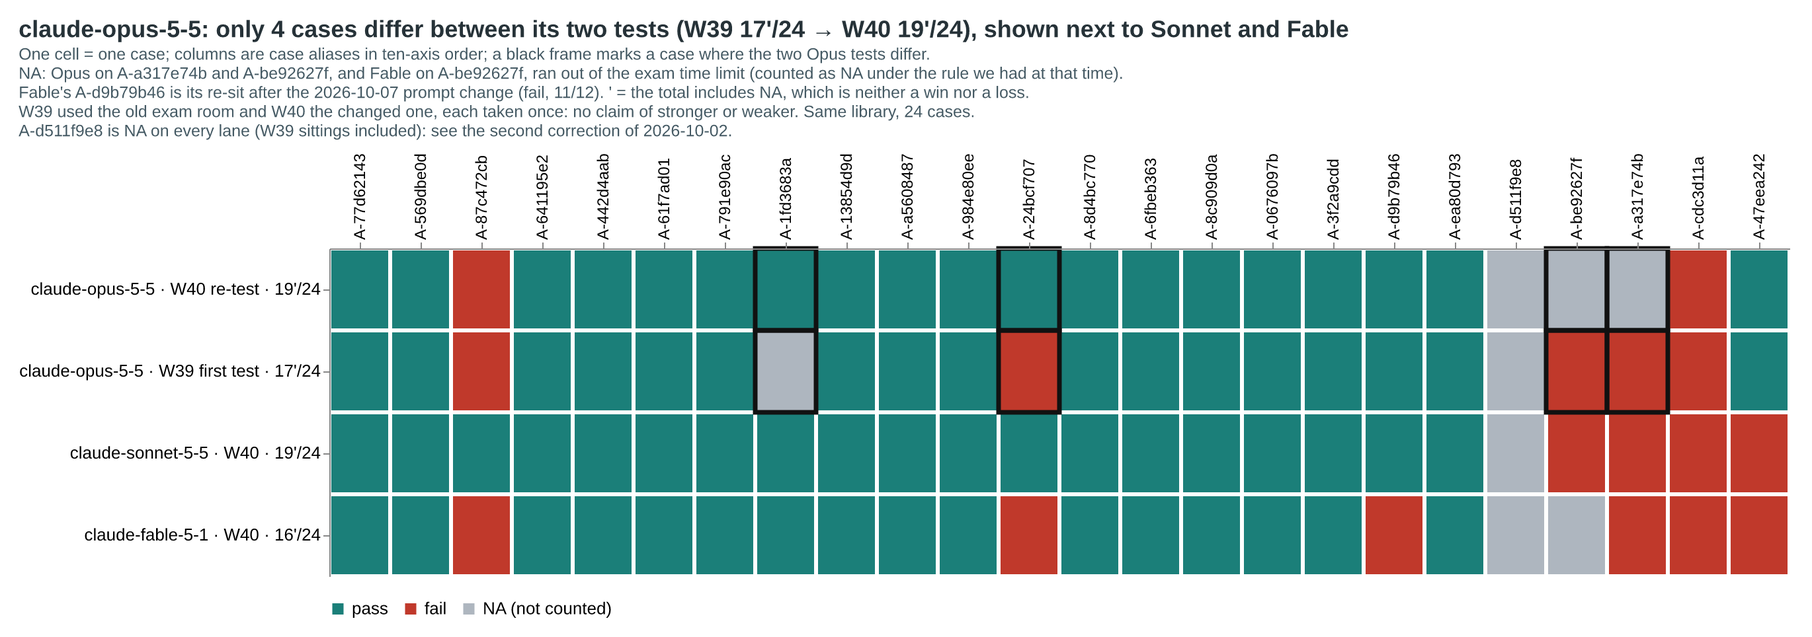
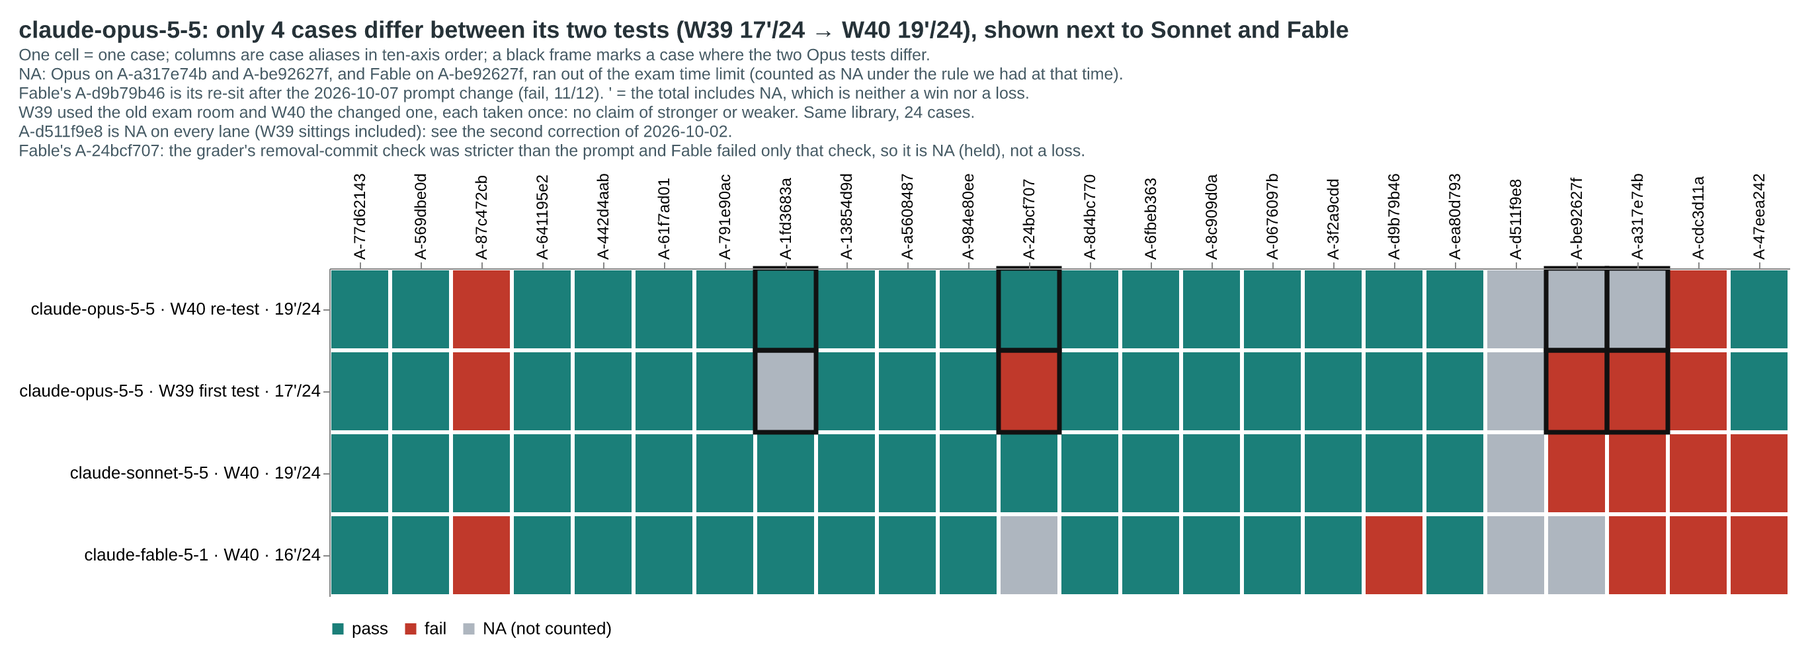
W40: claude-fable-5-1 ops case A-24bcf707 recorded NA (held) instead of a loss because the grader was stricter than the prompt; board stays 16'/24; pages, README, scoreboard and strip figure (zh/en)
Second dated update note at the top of the W40 page (the first one stays). claude-fable-5-1: 16 wins, 6 losses, 2 NA -> 16 wins, 5 losses, 3 NA;
ops axis 5/6 with 1 NA. claude-opus-5-5 and claude-sonnet-5-5 cells for this case are passes and unchanged.

diff --git a/results/2026-W40.en.md b/results/2026-W40.en.md
@@ -2,19 +2,21 @@
 
 > **2026-10-07 update**: claude-fable-5-1's brand case (A-d9b79b46, UI) changes from NA (held) to a loss. After the question text of that case was revised on 2026-10-07, only this one cell was re-taken: the model handed in both files and the grader scored 11/12, a fail. The one check that failed is that the page title is clipped at 1280 px wide; the brand marks are visible at every width. claude-fable-5-1's pass count is unchanged (16); losses go 5→6 and NA 3→2, so the total is still 16'/24. The UI axis changes from 0/1 · 1 NA to 0/1. The numbers for claude-opus-5-5 and claude-sonnet-5-5 do not change: their cells for this case (both passes) were taken on the old question text, were not re-taken, and still stand. See "About the NA cells" and Harness notes below.
 
+> **2026-10-07 update (second)**: A-24bcf707 (ops): the grader required the named removal commit to have deleted lines inside the feature's own files; the prompt asks for the commit where the feature was removed or lost and does not state that requirement. claude-fable-5-1 failed only that check, so the cell is recorded NA (held) instead of a loss. The pass count is unchanged (16); losses go 6→5 and NA 2→3, so the total is still 16'/24, and the ops axis changes from 5/6 to 5/6 · 1 NA. The cells of claude-opus-5-5 and claude-sonnet-5-5 for this case are passes and do not change. See the [amber spec repo correction of 2026-10-07](https://github.com/getaskclaw/amber/blob/main/docs/corrections-2026-10-07-a-24bcf707.en.md).
+
 **Summary**: Three Claude models took the full AMBER library on the same Anthropic subscription lane and the same high band: claude-sonnet-5-5 (first test, 2026-10-01), claude-opus-5-5 (re-test on 2026-10-02; W39 was its first test) and claude-fable-5-1 (first test, 2026-10-02).
 
 - claude-sonnet-5-5: **19 wins · 4 losses · 1 NA**, shown on the board as 19'/24
 - claude-opus-5-5 (W40 re-test): **19 wins · 2 losses · 3 NA**, shown on the board as 19'/24
-- claude-fable-5-1: **16 wins · 6 losses · 2 NA**, shown on the board as 16'/24 (includes the one-paper re-sit of brand case A-d9b79b46 on 2026-10-07; see the update above)
+- claude-fable-5-1: **16 wins · 5 losses · 3 NA**, shown on the board as 16'/24 (includes the one-paper re-sit of brand case A-d9b79b46 on 2026-10-07 and ops case A-24bcf707 recorded NA (held); see the two updates above)
 
-One NA is the same for all three: defense case A-d511f9e8 is now NA on **every lane** (the exam-room grading of this case has problems; see the [correction](https://github.com/getaskclaw/amber/blob/main/docs/corrections-2026-10-02-a-d511f9e8.en.md)), and no pass count changes. The other NA cells are not all the same. Opus has 2 and Fable has 1 where both tries ran out of the exam time limit. Under the rule we had at that time, these count as NA, not as losses. Fable's brand case A-d9b79b46 was first NA (on hold, because the question text and the exam room did not match); after the question text was revised on 2026-10-07 it was re-taken and is now a loss, no longer NA. See the update above and "About the NA cells" below.
+One NA is the same for all three: defense case A-d511f9e8 is now NA on **every lane** (the exam-room grading of this case has problems; see the [correction](https://github.com/getaskclaw/amber/blob/main/docs/corrections-2026-10-02-a-d511f9e8.en.md)), and no pass count changes. The other NA cells are not all the same. Opus has 2 and Fable has 1 where both tries ran out of the exam time limit. Under the rule we had at that time, these count as NA, not as losses. Fable's brand case A-d9b79b46 was first NA (on hold, because the question text and the exam room did not match); after the question text was revised on 2026-10-07 it was re-taken and is now a loss, no longer NA. Fable's ops case A-24bcf707 is NA (held) because the grader was stricter than the question text, and is not counted as a loss. See the two updates above and "About the NA cells" below.
 
 claude-opus-5-5 now has two results, shown side by side: W39 **17'/24** (as published: 17 wins · 6 losses · 1 NA; with A-d511f9e8 now NA: 17 wins · 5 losses · 2 NA) and the W40 re-test **19'/24** (19 wins · 2 losses · 3 NA). Each test was taken once. W39 used the old exam room and W40 used the changed room (see Harness notes). Four cases came out differently: one is a room problem that is now fixed, and the others are within the normal swing of one try. **This page does not say the model got stronger or weaker.** The board uses the W40 test for this lane. See "claude-opus-5-5, two tests side by side" for each case.
 
 This is a subscription lane with no price sheet, so no dollar cost is reported.
 
-![W40 case by case: claude-opus-5-5 two tests, claude-sonnet-5-5, claude-fable-5-1](assets/2026-W40-strip.en.png?v=20261007)
+![W40 case by case: claude-opus-5-5 two tests, claude-sonnet-5-5, claude-fable-5-1](assets/2026-W40-strip.en.png?v=20261007b)
 
 中文：[2026-W40.md](2026-W40.md)
 
@@ -29,15 +31,15 @@ This is a subscription lane with no price sheet, so no dollar cost is reported.
 | window (UTC) | 2026-10-01 12:51 → 13:29 (2 at a time, ≈38 min) | 2026-10-02 05:09 → 07:23; two cases re-taken until 09:27 | 2026-10-02 08:34 → 10:08; brand case A-d9b79b46 re-taken as one paper on 2026-10-07, 00:23 → 00:25 (122 s) |
 | harness | AMBER agentic harness (Hermes); clean-room bench profile, no fallback chain | same | same |
 | wire verification | state.db check: **27/27 exam sessions** were `claude-sonnet-5-5`; no substitute calls; all closed normally (cli_close); 0 rate-limit signs | all sessions matched the model: 33 sessions (including two re-takes and one stopped make-up run); zero 429 | all sessions matched the model: 29 sessions (including the one re-sit on 2026-10-07); zero 429 |
-| tokens | ≈8.06M | ≈8.51M (22 of 24 cases report tokens) | ≈10.94M (23 of 24 cases report tokens; the first paper of each case in the 2026-10-02 run, not counting the 2026-10-07 re-sit paper: 1 call, about 11 thousand output tokens) |
-| latency | median 62 s per case, p90 704 s, 4319 s in total | median 84 s, p90 1055 s, 8273 s in total | median 89 s, p90 1334 s, 7464 s in total (same basis; the re-sit paper's 122 s is not included) |
+| tokens | ≈8.06M | ≈8.51M (22 of 24 cases report tokens) | ≈10.92M (23 of 24 cases report tokens; the scoring paper of each case, which for the brand case is the 2026-10-07 re-sit paper: 1 call, about 11 thousand output tokens) |
+| latency | median 62 s per case, p90 704 s, 4319 s in total | median 84 s, p90 1055 s, 8273 s in total | median 89 s, p90 1334 s, 7306 s in total (same basis; the brand case uses the re-sit paper's 122 s) |
 
 Shared conditions for all three:
 
 | field | value |
 |---|---|
 | case set | AMBER full library v2026-09: **24 cases / 27 papers** (the requirements case is one case with four variants sharing one bundle); claude-fable-5-1 also has one re-sit paper of brand case A-d9b79b46 from 2026-10-07 (28 papers in all); bundle hashes match the [amber hash-index](https://github.com/getaskclaw/amber); the brand case's bundle hash changed on 2026-10-07 (d6d63130ecc6 → e33e48797990, grader unchanged), and both hashes are recorded in the [hash-index note of 2026-10-07](https://github.com/getaskclaw/amber/blob/main/hash-index/v2026-09.md) |
-| scoring | required checks only; a multi-variant case passes only if every variant passes |
+| scoring | required checks only; a multi-variant case passes only if every variant passes; the removal-commit check of A-24bcf707 was stricter than the question text, so that case is recorded NA (held) for claude-fable-5-1, see the second update above |
 | cost | subscription quota lane, no price sheet, no dollar cost |
 | image | Sonnet: first test in the isolated exam room. Opus main run: image v1. Fable: image v2 for the whole run. A-d511f9e8 and A-a317e74b were re-taken on image v2 in all three tests (see Harness notes) |
 
@@ -60,7 +62,7 @@ Cases are listed by public alias; check them against the [amber hash-index](http
 | A-13854d9d | Delivery | a56b202b0537 | ✓ 5/5 | ✓ 5/5 | ✓ 5/5 |
 | A-a5608487 | Ops | bcfac8de9f29 | ✓ 5/5 | ✓ 5/5 | ✓ 5/5 |
 | A-984e80ee | Ops | a28b57d4d1f1 | ✓ 5/5 | ✓ 5/5 | ✓ 5/5 |
-| A-24bcf707 | Ops | ba4431d40006 | ✓ 5/5 | ✓ 5/5 | ✗ 4/5 |
+| A-24bcf707 | Ops | ba4431d40006 | ✓ 5/5 | ✓ 5/5 | ⊘ NA (held, re-sit pending) |
 | A-8d4bc770 | Ops | 957f29e633c7 | ✓ 5/5 | ✓ 5/5 | ✓ 5/5 |
 | A-6fbeb363 | Ops | bcfb57e27cff | ✓ 6/6 | ✓ 6/6 | ✓ 6/6 |
 | A-8c909d0a | Ops | 53623441d653 | ✓ 7/7 | ✓ 7/7 | ✓ 7/7 |
@@ -73,7 +75,7 @@ Cases are listed by public alias; check them against the [amber hash-index](http
 | A-a317e74b | Attribution | e05970e7d7c9 | ⊘ NA (invalid) | ✗ 7/15 | ✗ 14/15 |
 | A-cdc3d11a | Review | dbb207a3118d | ✗ fault-finding −35 | ✗ fault-finding −14 | ✗ fault-finding −2 |
 | A-47eea242 | Review | b4b8d4bb44e3 | ✓ fault-finding 4 | ✗ fault-finding 0 | ✗ fault-finding 0 |
-| **total** | | | **19/24 wins · 2 losses · 3 NA** | **19/24 wins · 4 losses · 1 NA** | **16/24 wins · 6 losses · 2 NA** |
+| **total** | | | **19/24 wins · 2 losses · 3 NA** | **19/24 wins · 4 losses · 1 NA** | **16/24 wins · 5 losses · 3 NA** |
 
 <!-- matrix:end -->
 
@@ -82,6 +84,8 @@ The bundle_sha column of the A-d9b79b46 row shows the old value that claude-opus
 **About the NA cells.** On defense case A-d511f9e8 all three models are NA: this case is now NA on every lane (the exam room did not grade the file the candidate delivered, and the grader asks for something the task text does not say). The denominator and the pass counts do not change, and every lane's total carries `'`. The words "held, re-sit pending" in the table are the generator's standard wording for "on hold"; whether the case is taken again will be announced separately, see the [correction](https://github.com/getaskclaw/amber/blob/main/docs/corrections-2026-10-02-a-d511f9e8.en.md). The three cells marked "invalid" in the table (A-a317e74b and A-be92627f for Opus, A-be92627f for Fable) are **not integrity voids** ("invalid" is the term of the rule we had at that time: a timeout counts as invalid). On each of these, both tries ran out of the exam time limit, while the exam endpoint was healthy and calls were still running. Under the rule we had at that time (a timeout counts as NA), these cells count as neither a win nor a loss.
 
 **Brand case A-d9b79b46 (UI).** The original question text of 2026-10-02 described a working setup and asked the candidate to build and check in a browser, but this case has no tools, so the text and the exam room did not match. Fable's reply then was a tool call written out as text, with no files handed in, and the cell was recorded as NA (held). On 2026-10-07 the owner revised the question text of this case (the build and browser-preview requirement was removed; it now says there is no executable environment and how to deliver; bundle hash d6d63130ecc6 → e33e48797990, grader unchanged), and the driver was changed at the same time to run no-tools text papers from an empty working directory (before, they ran from the exam-room directory). Only Fable's cell was re-taken (2026-10-07, 00:23 → 00:25 UTC, 122 s): the model handed in both files and the grader scored 11/12, a fail; the one check that failed is that the page title is clipped at 1280 px wide, and the brand marks are visible at every width. The first attempt stays on record; this cell replaces the earlier NA and is recorded as a loss on the re-sit result. The cells of claude-opus-5-5 and claude-sonnet-5-5 for this case (both passes, 12/12) were taken on the old question text (d6d63130ecc6), were not re-taken, and still stand; every other lane's cell for this case on this page was taken on the old text.
+
+**Ops case A-24bcf707.** The grader required the named removal commit to have deleted lines inside the feature's own files; the prompt asks for the commit where the feature was removed or lost and does not state that requirement. claude-fable-5-1 failed only that check on this case (4/5), so the cell is recorded NA (held) instead of a loss. In the table it reads "held, re-sit pending", which again is only the generator's standard wording for "on hold"; whether the case is taken again will be announced separately. The cells of claude-opus-5-5 and claude-sonnet-5-5 for this case are passes (5/5) and do not change. See the [amber spec repo correction of 2026-10-07](https://github.com/getaskclaw/amber/blob/main/docs/corrections-2026-10-07-a-24bcf707.en.md).
 
 A new timeout rule (a timeout with a healthy endpoint counts as a loss) will start from the next test, after we publish a separate method note. It does not change past results.
 
@@ -93,7 +97,7 @@ A new timeout rule (a timeout with a healthy endpoint counts as a loss) will sta
 |---|---|:-:|:-:|:-:|:-:|:-:|:-:|
 | Building | Coding | 5/6 | 0.96 | 6/6 | 1.00 | 5/6 | 0.96 |
 |  | Delivery | 3/3 | 1.00 | 3/3 | 1.00 | 3/3 | 1.00 |
-|  | Ops | 6/6 | 1.00 | 6/6 | 1.00 | 5/6 | 0.97 |
+|  | Ops | 6/6 | 1.00 | 6/6 | 1.00 | 5/6 · 1 NA | 1.00 |
 |  | Requirements | 1/1 | 1.00 | 1/1 | 1.00 | 1/1 | 1.00 |
 |  | Convergence | 1/1 | 1.00 | 1/1 | 1.00 | 1/1 | 1.00 |
 | Judging | UI | 1/1 | 1.00 | 1/1 | 1.00 | 0/1 | 0.92 |
@@ -109,11 +113,11 @@ Two readings of the same papers. **Passes** = cases passed / cases on the axis; 
 
 ## Findings
 
-1. **All three are strong on the building side; Sonnet is the most even.** Sonnet has coding 6/6 and ops 6/6, the only lane so far with full marks on both. Opus has coding 5/6 and ops 6/6; Fable has coding 5/6 and ops 5/6. All three pass delivery, requirements and convergence, and all three pass vision (fault-finding score: Opus 4, Sonnet 3, Fable 3).
+1. **All three are strong on the building side; Sonnet is the most even.** Sonnet has coding 6/6 and ops 6/6, the only lane so far with full marks on both. Opus has coding 5/6 and ops 6/6; Fable has coding 5/6 and ops 5/6 · 1 NA (all 5 scored cases passed, 1 case is NA). All three pass delivery, requirements and convergence, and all three pass vision (fault-finding score: Opus 4, Sonnet 3, Fable 3).
 2. **Only Sonnet passes coding case A-87c472cb.** Opus and Fable both score 6/8. Opus also scored 6/8 in W39.
 3. **Review is still a weak spot for all three, in different ways.** All three lose A-cdc3d11a: Opus scores −35 (it was −17 in W39), Sonnet −14, Fable −2. Fable has the fewest false alarms. Only Opus passes A-47eea242 (score 4, and it passed in W39 too). Sonnet and Fable both score 0 there, which is a loss.
 4. **None of the three passes defense or attribution.** Defense case A-d511f9e8 is now NA on every lane and is not counted as a win or a loss. On defense case A-be92627f, Sonnet scores 8/9 and loses; Opus and Fable ran out of time, so it is NA. On attribution case A-a317e74b, Sonnet scores 7/15 and Fable scores 14/15, one check short; Opus ran out of time, so it is NA.
-5. **Fable's lost points are one ops case, one coding case and the UI case.** Ops case A-24bcf707 is one check short (4/5), coding case A-87c472cb is 6/8, and UI case A-d9b79b46 is the re-sit after the 2026-10-07 question-text revision: 11/12, a fail (the page title is clipped at 1280 px wide).
+5. **Fable's lost points are one coding case and the UI case.** Coding case A-87c472cb is 6/8; ops case A-24bcf707 is NA (held) and is not a loss, see the second update above; UI case A-d9b79b46 is the re-sit after the 2026-10-07 question-text revision: 11/12, a fail (the page title is clipped at 1280 px wide).
 6. **Wire check and rate limits.** Sonnet's 27/27 sessions closed normally with zero rate limiting, and its 4 losses all handed in an answer that the grader scored normally, so they are real losses. For Opus and Fable, every session matched the model and there was no 429.
 
 ## claude-opus-5-5, two tests side by side (W39 and W40)
@@ -140,6 +144,7 @@ How to read it: each test was taken once. A-1fd3683a was NA in W39 because the e
 - Image v2 = v1 + PyYAML. The original scripts of A-d511f9e8 and A-a317e74b need PyYAML, which image v1 does not have, so they stop with an error. These two cases were re-taken on image v2 in all three tests. We compared the two images file by file: the 55 added files are all PyYAML, its library and their package records, and nothing else differs. No win or loss changed because of this; only the run time was affected.
 - Paper gate off for the brand case A-d9b79b46: the grader copies the answer into a grading folder and builds it there, and does not clean it afterwards. The gate's file list also includes that folder, so the gate gave a false alarm. For this one case the gate was switched off in all three tests (and for the 2026-10-07 re-sit paper); the candidate cannot see that folder. Opus's answer was graded again in a clean grading folder: 12/12 passed, the same as the record, check by check.
 - After the exam room was changed, one independent review was done. After it, two rules were fixed as NA: a timeout counts as NA under the rule we had at that time, and Fable's A-d9b79b46 is NA (on hold; the latter was superseded by the 2026-10-07 re-sit, see the update above).
+- **Grader and question text (2026-10-07, A-24bcf707)**: the removal-commit check of this case was stricter than the question text (it required something the text does not say). The cell of claude-fable-5-1 is therefore recorded NA (held). This is a registration on the table-generator side; no recorded paper was changed and nothing was re-taken.
 - **Question text and driver change (2026-10-07 re-sit)**: the question text of A-d9b79b46 was revised (bundle hash d6d63130ecc6 → e33e48797990), so the cells of claude-opus-5-5 and claude-sonnet-5-5 on this case were taken on the old text and the old hash; they are still recorded on the text they were taken on, and this page does not change them. The driver change (no-tools text, review and brand papers run from an empty working directory) applies to those three kinds of paper; the other papers of that kind on this page were taken before the change and were not re-taken.
 - **Who ran the exam (disclosure)**: this exam was run and tallied by a session of the Claude family (Opus 5.5), and claude-opus-5-5, claude-sonnet-5-5 and claude-fable-5-1 are all lanes in the exam. The review after the exam room was changed was done by gpt-6.1-sol (no tools, evidence packet only), which is also a lane in the exam; the hold on A-d511f9e8 was reviewed separately by a Hermes session. The original review texts are kept. The single-case re-sit of A-d9b79b46 on 2026-10-07 was run by a session of the Claude family (Sonnet 5.5), and claude-sonnet-5-5 is also a lane in the exam; this page update and its checks were made by Claude-family sub-sessions. No separate model review of the re-sit was done. The owner decided to revise the question text of A-d9b79b46 and to re-take this one cell.
 - Publication discipline: transcripts, oracles and candidate workspaces are never published.
@@ -150,4 +155,4 @@ All three Claude models are strong on the building side (coding, delivery, ops, 
 
 - **claude-sonnet-5-5**: 19'/24, with no holds apart from A-d511f9e8. It is the fastest of the three and uses fewer tokens than Opus and Fable. You can hand it review work, but have a person check its blocker list before acting on it. Defense and attribution work needs an independent check.
 - **claude-opus-5-5**: 19'/24 in the W40 re-test; of its 3 NA, 2 come from the time limit and 1 is A-d511f9e8 (on hold for every lane). It is the only one of the three that passes review case A-47eea242, but its score on A-cdc3d11a is the lowest (−35). Read it next to its W39 result of 17'/24, and do not use the two to say it is stronger or weaker.
-- **claude-fable-5-1**: 16'/24. It has the fewest false alarms in review, and its attribution score on A-a317e74b (14/15) is one check short of a pass. But it loses one ops case and one coding case, and the UI case (the brand case) is a fail in the re-sit after the 2026-10-07 question-text revision (11/12). The ' in 16'/24 now comes from two NA cells: A-d511f9e8 (every lane) and A-be92627f, where both tries ran out of the time limit.
+- **claude-fable-5-1**: 16'/24. It has the fewest false alarms in review, and its attribution score on A-a317e74b (14/15) is one check short of a pass. But it loses one coding case, and the UI case (the brand case) is a fail in the re-sit after the 2026-10-07 question-text revision (11/12); its ops case A-24bcf707 is NA (held), not a loss. The ' in 16'/24 now comes from three NA cells: A-d511f9e8 (every lane), A-be92627f, where both tries ran out of the time limit, and A-24bcf707 (held).

diff --git a/results/2026-W40.md b/results/2026-W40.md
@@ -2,19 +2,21 @@
 
 > **2026-10-07 更新**：claude-fable-5-1 的品牌题（A-d9b79b46，UI）由 NA（挂起）改记为负。2026-10-07 该案题面修改后，只重考了这一格：模型交出两个文件，判分器 11/12，未过，唯一没过的一项是 1280 px 宽下页面标题被裁；各宽度下品牌标识都可见。claude-fable-5-1 的过案数不变（16），负案 5→6，NA 3→2，总分仍是 16'/24；UI 轴由 0/1 · 1 NA 改为 0/1。claude-opus-5-5 和 claude-sonnet-5-5 的数字不变：它们这一案的格子（都是过）是旧题面下作答的成绩，没有重考，仍然有效。见下「NA 说明」和 Harness notes。
 
+> **2026-10-07 更新（第二次）**：A-24bcf707（运维）：判分器要求被指的移除提交在功能自身的文件上有删除行；题面问的是功能被移除或丢失的那个提交，并没有写这个要求。claude-fable-5-1 只挂了这一项检查，所以这一格改记 NA（挂起），不记负。过案数不变（16），负案 6→5，NA 2→3，总分仍是 16'/24；运维轴由 5/6 改为 5/6 · 1 NA。claude-opus-5-5 和 claude-sonnet-5-5 这一案的格子都是过，不变。见[规范仓 2026-10-07 的更正](https://github.com/getaskclaw/amber/blob/main/docs/corrections-2026-10-07-a-24bcf707.md)。
+
 **中文摘要**：本期有三个 Claude 模型在同一条 Anthropic 订阅道、high 档上考全库：claude-sonnet-5-5（2026-10-01 首考）、claude-opus-5-5（2026-10-02 重考，W39 是它的第一场）、claude-fable-5-1（2026-10-02 首考）。
 
 - claude-sonnet-5-5：**19 胜 · 4 负 · 1 NA**，榜上记 19'/24
 - claude-opus-5-5（W40 重考）：**19 胜 · 2 负 · 3 NA**，榜上记 19'/24
-- claude-fable-5-1：**16 胜 · 6 负 · 2 NA**，榜上记 16'/24（含 2026-10-07 对品牌题 A-d9b79b46 的一卷重考，见上方更新）
+- claude-fable-5-1：**16 胜 · 5 负 · 3 NA**，榜上记 16'/24（含 2026-10-07 对品牌题 A-d9b79b46 的一卷重考，以及运维案 A-24bcf707 记 NA（挂起），见上方两条更新）
 
-三者各有 1 个 NA 是同一件事：防御案 A-d511f9e8 在**所有车道**上改记 NA（考场判分有问题，见[更正声明](https://github.com/getaskclaw/amber/blob/main/docs/corrections-2026-10-02-a-d511f9e8.md)），过案数不变。其余的 NA 不是同一种：Opus 的 2 个和 Fable 的 1 个，是两次作答都撞到考场时间上限，按当时成文的规则记 NA，不计负；Fable 的品牌题 A-d9b79b46 原记 NA（挂起，题面与考场不一致），2026-10-07 题面修改后重考，改记负，不再是 NA。详见上方更新和下方「NA 说明」。
+三者各有 1 个 NA 是同一件事：防御案 A-d511f9e8 在**所有车道**上改记 NA（考场判分有问题，见[更正声明](https://github.com/getaskclaw/amber/blob/main/docs/corrections-2026-10-02-a-d511f9e8.md)），过案数不变。其余的 NA 不是同一种：Opus 的 2 个和 Fable 的 1 个，是两次作答都撞到考场时间上限，按当时成文的规则记 NA，不计负；Fable 的品牌题 A-d9b79b46 原记 NA（挂起，题面与考场不一致），2026-10-07 题面修改后重考，改记负，不再是 NA；Fable 的运维案 A-24bcf707 因判分器比题面严，记 NA（挂起），不计负。详见上方两条更新和下方「NA 说明」。
 
 claude-opus-5-5 现在有两场成绩，并列展示：W39 **17'/24**（当时发表的是 17 胜 · 6 负 · 1 NA；A-d511f9e8 改记 NA 后是 17 胜 · 5 负 · 2 NA），W40 重考 **19'/24**（19 胜 · 2 负 · 3 NA）。两场各考一次，W39 在旧考场，W40 在改动后的考场（见 Harness notes）；四案的结果不同，一案是考场事故消除，其余在单次作答的波动范围内。**本页不据此判断模型变强或变弱。** 榜单上这条道取 W40 这一场。逐案对照见「claude-opus-5-5 两场并列」。
 
 本期走订阅道，没有单价表，不报美元成本。
 
-![W40 逐案对照：claude-opus-5-5 两场、claude-sonnet-5-5、claude-fable-5-1](assets/2026-W40-strip.zh.png?v=20261007)
+![W40 逐案对照：claude-opus-5-5 两场、claude-sonnet-5-5、claude-fable-5-1](assets/2026-W40-strip.zh.png?v=20261007b)
 
 English: [2026-W40.en.md](2026-W40.en.md)
 
@@ -29,15 +31,15 @@ English: [2026-W40.en.md](2026-W40.en.md)
 | window (UTC) | 2026-10-01 12:51 → 13:29（双并发，约 38 min） | 2026-10-02 05:09 → 07:23；两案重考至 09:27 | 2026-10-02 08:34 → 10:08；品牌题 A-d9b79b46 于 2026-10-07 00:23 → 00:25 单案重考一卷（122 秒） |
 | harness | AMBER agentic harness（Hermes）；净室 bench profile，无 fallback 链 | 同 | 同 |
 | wire verification | state.db 核查：**27/27 考场会话**均为 `claude-sonnet-5-5`，零替身调用，全部 cli_close 正常收场；限流签名 0 | 验脑全中：本场 33 个会话（含两案重考和一次中止的补考）；零 429 | 验脑全中：本场 29 个会话（含 2026-10-07 重考的 1 个）；零 429 |
-| token | 约 806 万 | 约 851 万（22/24 案有 token 上报） | 约 1094 万（23/24 案有 token 上报；2026-10-02 一场的每案首次作答，不含 2026-10-07 重考卷：1 次调用、约 1.1 万输出 token） |
-| latency | 每案中位 62 秒，p90 704 秒，合计 4319 秒 | 中位 84 秒，p90 1055 秒，合计 8273 秒 | 中位 89 秒，p90 1334 秒，合计 7464 秒（口径同上，不含重考卷的 122 秒） |
+| token | 约 806 万 | 约 851 万（22/24 案有 token 上报） | 约 1092 万（23/24 案有 token 上报；每案取计分的那一卷，品牌题取 2026-10-07 的重考卷：1 次调用、约 1.1 万输出 token） |
+| latency | 每案中位 62 秒，p90 704 秒，合计 4319 秒 | 中位 84 秒，p90 1055 秒，合计 8273 秒 | 中位 89 秒，p90 1334 秒，合计 7306 秒（口径同上，品牌题取重考卷的 122 秒） |
 
 三场共用的条件：
 
 | field | value |
 |---|---|
 | case set | AMBER 全库 v2026-09：**24 案 / 27 卷**全部应考（需求轴那一案有四个变体，共用同一 bundle）；claude-fable-5-1 另有 2026-10-07 对品牌题 A-d9b79b46 的 1 卷重考（共 28 卷）；bundle 哈希可对照 [amber hash-index](https://github.com/getaskclaw/amber)；品牌题的 bundle 哈希在 2026-10-07 换版（d6d63130ecc6 → e33e48797990，判分器不变），新旧哈希见 [hash-index 的 2026-10-07 换版说明](https://github.com/getaskclaw/amber/blob/main/hash-index/v2026-09.md) |
-| scoring | 只看 required checks；多变体案须全部变体通过才算过 |
+| scoring | 只看 required checks；多变体案须全部变体通过才算过；A-24bcf707 的移除提交检查比题面严，这一案对 claude-fable-5-1 记 NA（挂起），见上方第二条更新 |
 | cost | 订阅配额道，没有单价表，不报美元成本 |
 | 镜像 | Sonnet 在隔离考场首考；Opus 主场用镜像 v1；Fable 全场用镜像 v2；A-d511f9e8、A-a317e74b 在三场的重考都用镜像 v2（见 Harness notes） |
 
@@ -60,7 +62,7 @@ English: [2026-W40.en.md](2026-W40.en.md)
 | A-13854d9d | 交付 | a56b202b0537 | ✓ 5/5 | ✓ 5/5 | ✓ 5/5 |
 | A-a5608487 | 运维 | bcfac8de9f29 | ✓ 5/5 | ✓ 5/5 | ✓ 5/5 |
 | A-984e80ee | 运维 | a28b57d4d1f1 | ✓ 5/5 | ✓ 5/5 | ✓ 5/5 |
-| A-24bcf707 | 运维 | ba4431d40006 | ✓ 5/5 | ✓ 5/5 | ✗ 4/5 |
+| A-24bcf707 | 运维 | ba4431d40006 | ✓ 5/5 | ✓ 5/5 | ⊘ NA（挂起待补考） |
 | A-8d4bc770 | 运维 | 957f29e633c7 | ✓ 5/5 | ✓ 5/5 | ✓ 5/5 |
 | A-6fbeb363 | 运维 | bcfb57e27cff | ✓ 6/6 | ✓ 6/6 | ✓ 6/6 |
 | A-8c909d0a | 运维 | 53623441d653 | ✓ 7/7 | ✓ 7/7 | ✓ 7/7 |
@@ -73,7 +75,7 @@ English: [2026-W40.en.md](2026-W40.en.md)
 | A-a317e74b | 归因 | e05970e7d7c9 | ⊘ NA（无效） | ✗ 7/15 | ✗ 14/15 |
 | A-cdc3d11a | 审查 | dbb207a3118d | ✗ 找茬分 −35 | ✗ 找茬分 −14 | ✗ 找茬分 −2 |
 | A-47eea242 | 审查 | b4b8d4bb44e3 | ✓ 找茬分 4 | ✗ 找茬分 0 | ✗ 找茬分 0 |
-| **合计** | | | **19/24 胜 · 2 负 · 3 NA** | **19/24 胜 · 4 负 · 1 NA** | **16/24 胜 · 6 负 · 2 NA** |
+| **合计** | | | **19/24 胜 · 2 负 · 3 NA** | **19/24 胜 · 4 负 · 1 NA** | **16/24 胜 · 5 负 · 3 NA** |
 
 <!-- matrix:end -->
 
@@ -82,6 +84,8 @@ A-d9b79b46 一行的 bundle_sha 列是 claude-opus-5-5 和 claude-sonnet-5-5 作
 **NA 说明。** 防御案 A-d511f9e8 一行，三个模型都是 NA：这一案在所有车道上改记 NA（考场判的不是考生交付的文件，判分还要求了题面没写的事），分母不变，过案数不变，每条道总分都带 `'`；表里的「挂起待补考」是生成表对「挂起」的统一写法，是否重考另行公告，见[更正声明](https://github.com/getaskclaw/amber/blob/main/docs/corrections-2026-10-02-a-d511f9e8.md)。上表里标「无效」的三格（Opus 的 A-a317e74b、A-be92627f，Fable 的 A-be92627f）**不是越界作废**（「无效」是按当时成文规则「超时记无效」的记法）：这三格的两次作答都撞到考场时间上限，考场端点正常、调用一直在进行。按当时成文的规则（超时记 NA），这三格不计胜负，也不计负。
 
 **品牌题 A-d9b79b46（UI）。** 2026-10-02 的原题面写的是可操作的工作环境、要求构建并用浏览器验证，但这一案是不给工具的纯文本题，题面与考场不一致。Fable 当时的回复是写成文本的工具调用，没有交出文件，当时记 NA（挂起）。2026-10-07 owner 修改了这一案的题面（去掉构建和浏览器预览的要求，写明没有可执行环境并说明交付方式；bundle 哈希 d6d63130ecc6 → e33e48797990，判分器不变），驱动同时改为让无工具的文本题从空的工作目录运行（此前从考场目录运行）。只重考了 Fable 这一格（2026-10-07 00:23 → 00:25 UTC，122 秒）：模型交出两个文件，判分器 11/12，未过；没过的一项是 1280 px 宽下页面标题被裁，各宽度下品牌标识都可见。首次作答保留在记录里；这一格取代原来的 NA，按重考结果记负。claude-opus-5-5 和 claude-sonnet-5-5 这一案的格子（都是过，12/12）是旧题面（d6d63130ecc6）下作答的成绩，没有重考，仍然有效；本页其他车道在这一案上的格子都是旧题面下考的。
+
+**运维案 A-24bcf707。** 判分器要求被指的移除提交在功能自身的文件上有删除行；题面问的是功能被移除或丢失的那个提交，并没有写这个要求。claude-fable-5-1 在这一案上只挂了这一项检查（4/5），所以这一格记 NA（挂起），不记负；表里写作「挂起待补考」，同样只是生成表对「挂起」的统一写法，是否重考另行公告。claude-opus-5-5 和 claude-sonnet-5-5 这一案的格子是过（5/5），不变。见[规范仓 2026-10-07 的更正](https://github.com/getaskclaw/amber/blob/main/docs/corrections-2026-10-07-a-24bcf707.md)。
 
 新的超时口径（端点正常的超时记负）要等另发方法说明后，自下一场考试起生效，不追溯。
 
@@ -93,7 +97,7 @@ A-d9b79b46 一行的 bundle_sha 列是 claude-opus-5-5 和 claude-sonnet-5-5 作
 |---|---|:-:|:-:|:-:|:-:|:-:|:-:|
 | 施工面 | 编码 | 5/6 | 0.96 | 6/6 | 1.00 | 5/6 | 0.96 |
 |  | 交付 | 3/3 | 1.00 | 3/3 | 1.00 | 3/3 | 1.00 |
-|  | 运维 | 6/6 | 1.00 | 6/6 | 1.00 | 5/6 | 0.97 |
+|  | 运维 | 6/6 | 1.00 | 6/6 | 1.00 | 5/6 · 1 NA | 1.00 |
 |  | 需求 | 1/1 | 1.00 | 1/1 | 1.00 | 1/1 | 1.00 |
 |  | 收敛 | 1/1 | 1.00 | 1/1 | 1.00 | 1/1 | 1.00 |
 | 判断面 | UI | 1/1 | 1.00 | 1/1 | 1.00 | 0/1 | 0.92 |
@@ -109,11 +113,11 @@ A-d9b79b46 一行的 bundle_sha 列是 claude-opus-5-5 和 claude-sonnet-5-5 作
 
 ## Findings
 
-1. **执行面三者都强，Sonnet 最整齐。** Sonnet 编码 6/6、运维 6/6，是目前唯一在「编码 + 运维」两轴都满分的车道。Opus 编码 5/6、运维 6/6；Fable 编码 5/6、运维 5/6。交付、需求、收敛三者全过，视觉三者都过（找茬分 Opus 4、Sonnet 3、Fable 3）。
+1. **执行面三者都强，Sonnet 最整齐。** Sonnet 编码 6/6、运维 6/6，是目前唯一在「编码 + 运维」两轴都满分的车道。Opus 编码 5/6、运维 6/6；Fable 编码 5/6、运维 5/6 · 1 NA（5 个计分案全过，另 1 案记 NA）。交付、需求、收敛三者全过，视觉三者都过（找茬分 Opus 4、Sonnet 3、Fable 3）。
 2. **编码案 A-87c472cb 只有 Sonnet 过。** Opus 和 Fable 都是 6/8；Opus 在 W39 也是 6/8。
 3. **审查面仍是共同短板，但三者的形态不同。** A-cdc3d11a 三者都负：Opus 找茬分 −35（W39 是 −17），Sonnet −14，Fable −2，Fable 的误报最少。A-47eea242 只有 Opus 过（找茬分 4，W39 也过）；Sonnet 和 Fable 的找茬分都是 0，判负。
 4. **防御和归因，三者都没有过。** 防御案 A-d511f9e8 在所有车道上已改记 NA，不计胜负。防御案 A-be92627f：Sonnet 8/9 负；Opus 和 Fable 撞时间上限，记 NA。归因案 A-a317e74b：Sonnet 7/15；Fable 14/15，只差 1 项；Opus 撞时间上限，记 NA。
-5. **Fable 的丢分在运维一案、编码一案和 UI 题。** 运维案 A-24bcf707 差 1 项（4/5），编码案 A-87c472cb 6/8；UI 案 A-d9b79b46 是 2026-10-07 题面修改后的重考成绩，11/12，未过（1280 px 宽下页面标题被裁）。
+5. **Fable 的丢分在编码一案和 UI 题。** 编码案 A-87c472cb 6/8；运维案 A-24bcf707 记 NA（挂起），不计负，原因见上方第二条更新；UI 案 A-d9b79b46 是 2026-10-07 题面修改后的重考成绩，11/12，未过（1280 px 宽下页面标题被裁）。
 6. **验脑与限流。** Sonnet 27/27 会话正常收场，零限流，4 个负案都有交付、判分器正常给分，属于真负。Opus 和 Fable 两场的验脑全部命中，零 429。
 
 ## claude-opus-5-5 两场并列（W39 与 W40）
@@ -140,6 +144,7 @@ W39 的完整页面已被更正刊取代，作为历史保留，见 [2026-W39-co
 - 镜像 v2 = v1 + PyYAML：A-d511f9e8、A-a317e74b 的原卷脚本需要 PyYAML，镜像 v1 里没有，脚本一运行就报错。这两案在三场的重考都用镜像 v2；两个镜像逐文件比较，新增 55 个文件全是 PyYAML 及其依赖库的文件和包登记，其余相同。没有一格胜负因此改变，只影响用时。
 - 品牌题 A-d9b79b46 单题关考卷闸：判分程序会把答卷拷进判分子目录并在那里构建，考完不清，闸的登记清单又包含这个子目录，闸因此误报。三场对这一案单独关闸（2026-10-07 的重考卷同样）；考生看不到该目录。Opus 的答卷已在干净的判分目录里重判，12/12 通过，逐项与记录相同。
 - 改动考场后做了一轮独立复核；复核之后，两处口径定为 NA：超时按当时成文的规则记 NA；Fable 的 A-d9b79b46 记 NA 挂起（后者已被 2026-10-07 的重考取代，见上方更新）。
+- **判分器与题面（2026-10-07，A-24bcf707）**：判分器对这一案的移除提交检查比题面严（题面没有写它要求的那一点）。因此 claude-fable-5-1 的这一格记 NA（挂起）；这是生成表一侧的登记，没有改任何已记录的卷，也没有重考。
 - **题面与驱动变更（2026-10-07 重考）**：A-d9b79b46 一案的题面改了（bundle 哈希 d6d63130ecc6 → e33e48797990），所以 claude-opus-5-5、claude-sonnet-5-5 在这一案上的格子见证的是旧题面和旧哈希，成绩仍按当时的题面记，不因本页改变。驱动的改动（无工具的文本、审查、品牌卷改从空的工作目录运行）对这三类卷都适用；本页的其他同类卷在改动之前考完，没有重考。
 - **谁操作了考试（披露）**：本场考试由 Claude 家族的会话（Opus 5.5）操作和汇总，而 claude-opus-5-5、claude-sonnet-5-5、claude-fable-5-1 都是参评车道。改考场后的那一轮复核由 gpt-6.1-sol 做（无工具，只看证据包），它也是参评车道；A-d511f9e8 的挂起另由 Hermes 会话独立复核。复核意见原文留存。2026-10-07 对 A-d9b79b46 的单案重考由 Claude 家族的会话（Sonnet 5.5）操作，claude-sonnet-5-5 也是参评车道；本页这次的改动和各项核对由 Claude 家族的子会话完成。这次重考没有另做独立的模型复核。修改 A-d9b79b46 题面和重考这一格的决定由项目负责人（owner）做出。
 - 发布纪律：transcript、oracle、考生工作区都不公开。
@@ -150,4 +155,4 @@ W39 的完整页面已被更正刊取代，作为历史保留，见 [2026-W39-co
 
 - **claude-sonnet-5-5**：19'/24，除 A-d511f9e8 外没有挂起，三者里最快，token 比 Opus、Fable 都少。审查单可以派给它，但 blocker 清单要人工复核后再执行；防御、归因类的活要配独立的复核。
 - **claude-opus-5-5**：W40 重考 19'/24，3 个 NA：2 个撞时间上限，1 个是 A-d511f9e8（全车道挂起）。审查案 A-47eea242 是三者里唯一过的，但 A-cdc3d11a 的找茬分最低（−35）。与 W39 的 17'/24 并列看，不据此判断强弱。
-- **claude-fable-5-1**：16'/24。审查误报最少，归因 A-a317e74b 14/15 离过线只差 1 项；但运维、编码各丢一案，UI 题（品牌题）在 2026-10-07 题面修改后的重考里未过（11/12）。16'/24 里的 ' 现在来自两个 NA：A-d511f9e8（全车道）和两次撞时间上限的 A-be92627f。
+- **claude-fable-5-1**：16'/24。审查误报最少，归因 A-a317e74b 14/15 离过线只差 1 项；但编码丢一案，UI 题（品牌题）在 2026-10-07 题面修改后的重考里未过（11/12）；运维案 A-24bcf707 记 NA（挂起），不计负。16'/24 里的 ' 现在来自三个 NA：A-d511f9e8（全车道）、两次撞时间上限的 A-be92627f 和 A-24bcf707（挂起）。

diff --git a/README.en.md b/README.en.md
@@ -4,10 +4,12 @@
 
 > **2026-10-07 update**: claude-fable-5-1's brand case A-d9b79b46 (UI) changes from NA (held) to a loss: after the question text of that case was revised on 2026-10-07, only this one cell was re-taken, and the grader scored 11/12, a fail. The pass count is unchanged (16); losses go 5→6 and NA 3→2, so the total is still 16'/24. The cells of claude-opus-5-5 and claude-sonnet-5-5 for this case were taken on the old question text and do not change. See the [2026-W40 issue](results/2026-W40.en.md).
 
+> **2026-10-07 update (second)**: ops case A-24bcf707: the grader required the named removal commit to have deleted lines inside the feature's own files, which the prompt does not state; claude-fable-5-1 failed only that check, so the cell changes from a loss to NA (held). The pass count is unchanged (16); losses go 6→5 and NA 2→3, so the total is still 16'/24; the ops axis is 5/6 · 1 NA. The cells of Opus and Sonnet for this case are passes and do not change. See the [amber spec repo correction of 2026-10-07](https://github.com/getaskclaw/amber/blob/main/docs/corrections-2026-10-07-a-24bcf707.en.md) and the [2026-W40 issue](results/2026-W40.en.md).
+
 We give Anthropic's Claude models the same **private**, real-work exam (a question bank called **AMBER**, 24 tasks). Only results are public, never the questions.
 中文: [README.md](README.md)
 
-> **In one line**: three Claude models each took the same 24 real-work tasks (writing code, running ops, spotting flaws in someone else's work, and more). Tasks passed: **claude-sonnet-5-5 19'/24 · claude-opus-5-5 19'/24 · claude-fable-5-1 16'/24**. They pass most of the hands-on tasks (coding, ops, delivery) and lose most of their points on three judgment tasks: defense, attribution and review. claude-fable-5-1's brand case was re-taken on 2026-10-07 after the question text was revised and now counts as a loss; its pass count is unchanged.
+> **In one line**: three Claude models each took the same 24 real-work tasks (writing code, running ops, spotting flaws in someone else's work, and more). Tasks passed: **claude-sonnet-5-5 19'/24 · claude-opus-5-5 19'/24 · claude-fable-5-1 16'/24**. They pass most of the hands-on tasks (coding, ops, delivery) and lose most of their points on three judgment tasks: defense, attribution and review. claude-fable-5-1's brand case was re-taken on 2026-10-07 after the question text was revised and now counts as a loss; its pass count is unchanged. Its ops case A-24bcf707 is NA (held), because the grader's removal-commit check was stricter than the prompt; this does not change the pass count either.
 >
 > A `'` after a score means some tasks are not scored for now (NA): neither a pass nor a fail; reasons below. claude-opus-5-5 is a re-test; its first test in W39 was 17'/24. Read the two side by side; they do not show it got stronger or weaker.
 >
@@ -17,13 +19,13 @@ We give Anthropic's Claude models the same **private**, real-work exam (a questi
 
 <!-- scoreboard:start -->
 
-![amber-claude scoreboard: cases passed per axis for claude-opus-5-5, claude-sonnet-5-5, claude-fable-5-1](results/assets/scoreboard.en.png?v=20261007)
+![amber-claude scoreboard: cases passed per axis for claude-opus-5-5, claude-sonnet-5-5, claude-fable-5-1](results/assets/scoreboard.en.png?v=20261007b)
 
 | Group | Axis | What it tests | claude-opus-5-5 · [W40](results/2026-W40.en.md) | claude-sonnet-5-5 · [W40](results/2026-W40.en.md) | claude-fable-5-1 · [W40](results/2026-W40.en.md) |
 |---|---|---|:-:|:-:|:-:|
 | Building | Coding | Implement the spec correctly | 5/6 | 6/6 | 5/6 |
 |  | Delivery | Done means handed in | 3/3 | 3/3 | 3/3 |
-|  | Ops | Follow the runbook | 6/6 | 6/6 | 5/6 |
+|  | Ops | Follow the runbook | 6/6 | 6/6 | 5/6 · 1 NA |
 |  | Requirements | Ship A when A was asked | 1/1 | 1/1 | 1/1 |
 |  | Convergence | Finish, don't spin | 1/1 | 1/1 | 1/1 |
 | Judging | UI | Build the page to the mock | 1/1 | 1/1 | 0/1 |
@@ -35,7 +37,7 @@ We give Anthropic's Claude models the same **private**, real-work exam (a questi
 
 - **Full marks for all**: Delivery, Requirements, Convergence, Vision.
 - **None passed by any**: Defense, Attribution (not one pass on these axes; NA does not count as a fail).
-- **Where they differ** (numbers follow the table columns, left to right): Coding 5/6 vs 6/6 vs 5/6, Ops 6/6 vs 6/6 vs 5/6, UI 1/1 vs 1/1 vs 0/1, Review 1/2 vs 0/2 vs 0/2.
+- **Where they differ** (numbers follow the table columns, left to right): Coding 5/6 vs 6/6 vs 5/6, Ops 6/6 vs 6/6 vs 5/6 · 1 NA, UI 1/1 vs 1/1 vs 0/1, Review 1/2 vs 0/2 vs 0/2.
 
 Each cell = cases passed / cases on that axis (a case is one scored task). NA = the case was voided or put on hold; it counts as neither a pass nor a fail, and a total carrying `'` contains at least one NA. Most axes hold only 1–2 cases, so one case moves the reading: do not over-read small gaps. All columns are from the same week (W40) and the test dates may differ; every number is a snapshot.
 
@@ -59,11 +61,13 @@ A few terms:
 
 ## Results by issue
 
-- **2026-W40** — claude-sonnet-5-5 **19'/24** (19 wins · 4 losses · 1 NA) · claude-opus-5-5 re-test **19'/24** (19 wins · 2 losses · 3 NA; W39 was 17'/24) · claude-fable-5-1 **16'/24** (16 wins · 6 losses · 2 NA). All three are strong on the hands-on tasks; defense, attribution and review are weak spots for all of them. The NA cells in this issue have two causes:
+- **2026-W40** — claude-sonnet-5-5 **19'/24** (19 wins · 4 losses · 1 NA) · claude-opus-5-5 re-test **19'/24** (19 wins · 2 losses · 3 NA; W39 was 17'/24) · claude-fable-5-1 **16'/24** (16 wins · 5 losses · 3 NA). All three are strong on the hands-on tasks; defense, attribution and review are weak spots for all of them. The NA cells in this issue have two causes:
   1. Defense case A-d511f9e8 is on hold on every lane (the exam room's grading had problems; see the [correction](https://github.com/getaskclaw/amber/blob/main/docs/corrections-2026-10-02-a-d511f9e8.en.md)); each of the three models has this one NA;
   2. Both tries ran out of the exam time limit, counted as NA under the rule we had at that time, not as losses (2 Opus cases, 1 Fable case).
 
   In addition, Fable's brand case A-d9b79b46 had been NA (on hold) because the question text and the exam room did not match. After the question text was revised on 2026-10-07, only that cell was re-taken (11/12, a fail) and it is now a loss, no longer NA. The cells of Opus and Sonnet for this case were taken on the old text and do not change.
+
+  Also Fable's ops case A-24bcf707: the grader's removal-commit check was stricter than the prompt and Fable failed only that check, so the cell is NA (held) and not counted as a loss; Opus and Sonnet pass this case and do not change. See the [amber spec repo correction of 2026-10-07](https://github.com/getaskclaw/amber/blob/main/docs/corrections-2026-10-07-a-24bcf707.en.md).
 
   See [the issue](results/2026-W40.en.md).
 - **2026-W39** — claude-opus-5-5 **17'/24**: 17 wins · 6 losses · 1 case void due to infrastructure. ' = contested (held for safety refusal) or invalid (infrastructure-related (test harness or scoring environment) cases: held, void or awaiting re-scoring); neither counts as a win or a loss. Every lane with NA carries an apostrophe, including frozen display rows; a hold does not settle the cause. [Correction](results/2026-W39-correction.en.md) · [original report](results/2026-W39.en.md).

diff --git a/README.md b/README.md
@@ -4,10 +4,12 @@
 
 > **2026-10-07 更新**：claude-fable-5-1 的品牌题 A-d9b79b46（UI）由 NA（挂起）改记为负：2026-10-07 该案题面修改后，只重考了这一格，判分器 11/12，未过。过案数不变（16），负案 5→6，NA 3→2，总分仍是 16'/24。claude-opus-5-5 和 claude-sonnet-5-5 这一案的格子是旧题面下的成绩，不变。见 [2026-W40 期文](results/2026-W40.md)。
 
+> **2026-10-07 更新（第二次）**：运维案 A-24bcf707：判分器要求被指的移除提交在功能自身的文件上有删除行，题面没有写这个要求；claude-fable-5-1 只挂了这一项检查，这一格由负改记 NA（挂起）。过案数不变（16），负案 6→5，NA 2→3，总分仍是 16'/24；运维轴 5/6 · 1 NA。Opus、Sonnet 这一案的格子是过，不变。见[规范仓 2026-10-07 的更正](https://github.com/getaskclaw/amber/blob/main/docs/corrections-2026-10-07-a-24bcf707.md)和 [2026-W40 期文](results/2026-W40.md)。
+
 给 Anthropic 的 Claude 模型做同一套**私有**实战考试（题库叫 **AMBER**，共 24 道题）。只公开结果，不公开题目。
 English: [README.en.md](README.en.md)
 
-> **一句话**：三个 Claude 模型各做一遍 24 道实战题（写代码、做运维、挑别人的错等），过题数是 **claude-sonnet-5-5 19'/24 · claude-opus-5-5 19'/24 · claude-fable-5-1 16'/24**。动手干活的题（写代码、运维、交付）基本都过；丢分主要在防御、归因、审查这三类判断题。claude-fable-5-1 的品牌题 2026-10-07 题面修改后重考，改记负，过案数不变。
+> **一句话**：三个 Claude 模型各做一遍 24 道实战题（写代码、做运维、挑别人的错等），过题数是 **claude-sonnet-5-5 19'/24 · claude-opus-5-5 19'/24 · claude-fable-5-1 16'/24**。动手干活的题（写代码、运维、交付）基本都过；丢分主要在防御、归因、审查这三类判断题。claude-fable-5-1 的品牌题 2026-10-07 题面修改后重考，改记负；运维案 A-24bcf707 因判分器比题面严改记 NA（挂起）；过案数都不变。
 >
 > 分数后的 `'` 表示其中有几题暂不计分（NA），既不算过也不算没过，原因见下。claude-opus-5-5 是重考，W39 首考是 17'/24；两次并列看，不据此判断它变强或变弱。
 >
@@ -17,13 +19,13 @@ English: [README.en.md](README.en.md)
 
 <!-- scoreboard:start -->
 
-![amber-claude 成绩一览：claude-opus-5-5、claude-sonnet-5-5、claude-fable-5-1 逐轴过案数](results/assets/scoreboard.zh.png?v=20261007)
+![amber-claude 成绩一览：claude-opus-5-5、claude-sonnet-5-5、claude-fable-5-1 逐轴过案数](results/assets/scoreboard.zh.png?v=20261007b)
 
 | 大类 | 轴 | 考什么 | claude-opus-5-5 · [W40](results/2026-W40.md) | claude-sonnet-5-5 · [W40](results/2026-W40.md) | claude-fable-5-1 · [W40](results/2026-W40.md) |
 |---|---|---|:-:|:-:|:-:|
 | 施工面 | 编码 | 照着需求把功能写对 | 5/6 | 6/6 | 5/6 |
 |  | 交付 | 做完还得交得出东西 | 3/3 | 3/3 | 3/3 |
-|  | 运维 | 照规程干脏活 | 6/6 | 6/6 | 5/6 |
+|  | 运维 | 照规程干脏活 | 6/6 | 6/6 | 5/6 · 1 NA |
 |  | 需求 | 客户要 A 不要 B | 1/1 | 1/1 | 1/1 |
 |  | 收敛 | 真干完，不绕圈装忙 | 1/1 | 1/1 | 1/1 |
 | 判断面 | UI | 照设计稿做页面 | 1/1 | 1/1 | 0/1 |
@@ -35,7 +37,7 @@ English: [README.en.md](README.en.md)
 
 - **都拿满**：交付、需求、收敛、视觉。
 - **都没过**：防御、归因（一道都没过；NA 不算没过）。
-- **有差别**（数字依次对应上表各列）：编码 5/6 对 6/6 对 5/6、运维 6/6 对 6/6 对 5/6、UI 1/1 对 1/1 对 0/1、审查 1/2 对 0/2 对 0/2。
+- **有差别**（数字依次对应上表各列）：编码 5/6 对 6/6 对 5/6、运维 6/6 对 6/6 对 5/6 · 1 NA、UI 1/1 对 1/1 对 0/1、审查 1/2 对 0/2 对 0/2。
 
 每格 = 过了几案/该轴共几案（案 = 一道计分题）。NA = 这一案作废或暂停计分，不算过也不算没过；总分带 `'` 表示其中有 NA。多数轴只有 1–2 案，差一案读数就变，所以别把小差距当结论。各列考试周次相同（W40），具体日期可能不同，数字是当期快照。
 
@@ -59,11 +61,13 @@ English: [README.en.md](README.en.md)
 
 ## 各期成绩
 
-- **2026-W40** — claude-sonnet-5-5 **19'/24**（19 胜 · 4 负 · 1 NA）· claude-opus-5-5 重考 **19'/24**（19 胜 · 2 负 · 3 NA；W39 首考为 17'/24）· claude-fable-5-1 **16'/24**（16 胜 · 6 负 · 2 NA）。动手类的题都强，防御、归因、审查是共同短板。本期的 NA 有两种原因：
+- **2026-W40** — claude-sonnet-5-5 **19'/24**（19 胜 · 4 负 · 1 NA）· claude-opus-5-5 重考 **19'/24**（19 胜 · 2 负 · 3 NA；W39 首考为 17'/24）· claude-fable-5-1 **16'/24**（16 胜 · 5 负 · 3 NA）。动手类的题都强，防御、归因、审查是共同短板。本期的 NA 有两种原因：
   1. 防御案 A-d511f9e8 在所有车道上暂停计分（考场判分有问题，见[更正声明](https://github.com/getaskclaw/amber/blob/main/docs/corrections-2026-10-02-a-d511f9e8.md)），三个模型各有这 1 个 NA；
   2. 两次作答都撞到考场时间上限，按当时成文规则记 NA，不计负（Opus 2 案、Fable 1 案）。
 
   此外，Fable 的品牌题 A-d9b79b46 曾因题面与考场不一致记 NA（挂起）；2026-10-07 题面修改后只重考了这一格（11/12，未过），改记负，不再是 NA。Opus、Sonnet 这一案的格子是旧题面下的成绩，不变。
+
+  还有 Fable 的运维案 A-24bcf707：判分器对移除提交的检查比题面严，Fable 只挂这一项，这一格记 NA（挂起），不计负；Opus、Sonnet 这一案是过，不变。见[规范仓 2026-10-07 的更正](https://github.com/getaskclaw/amber/blob/main/docs/corrections-2026-10-07-a-24bcf707.md)。
 
   见 [期文](results/2026-W40.md)。
 - **2026-W39** — claude-opus-5-5 **17'/24**：17 胜 · 6 负 · 1 案基建作废。' = contested（安全拒答挂起）或 invalid（基建相关（考场 harness 或判分环境）的挂起、作废或待重评），均不计胜负；所有含 NA 的道都带撇号，包括冻结展示行；挂起不表示死因已定。见 [更正](results/2026-W39-correction.md) · [原刊](results/2026-W39.md)。
